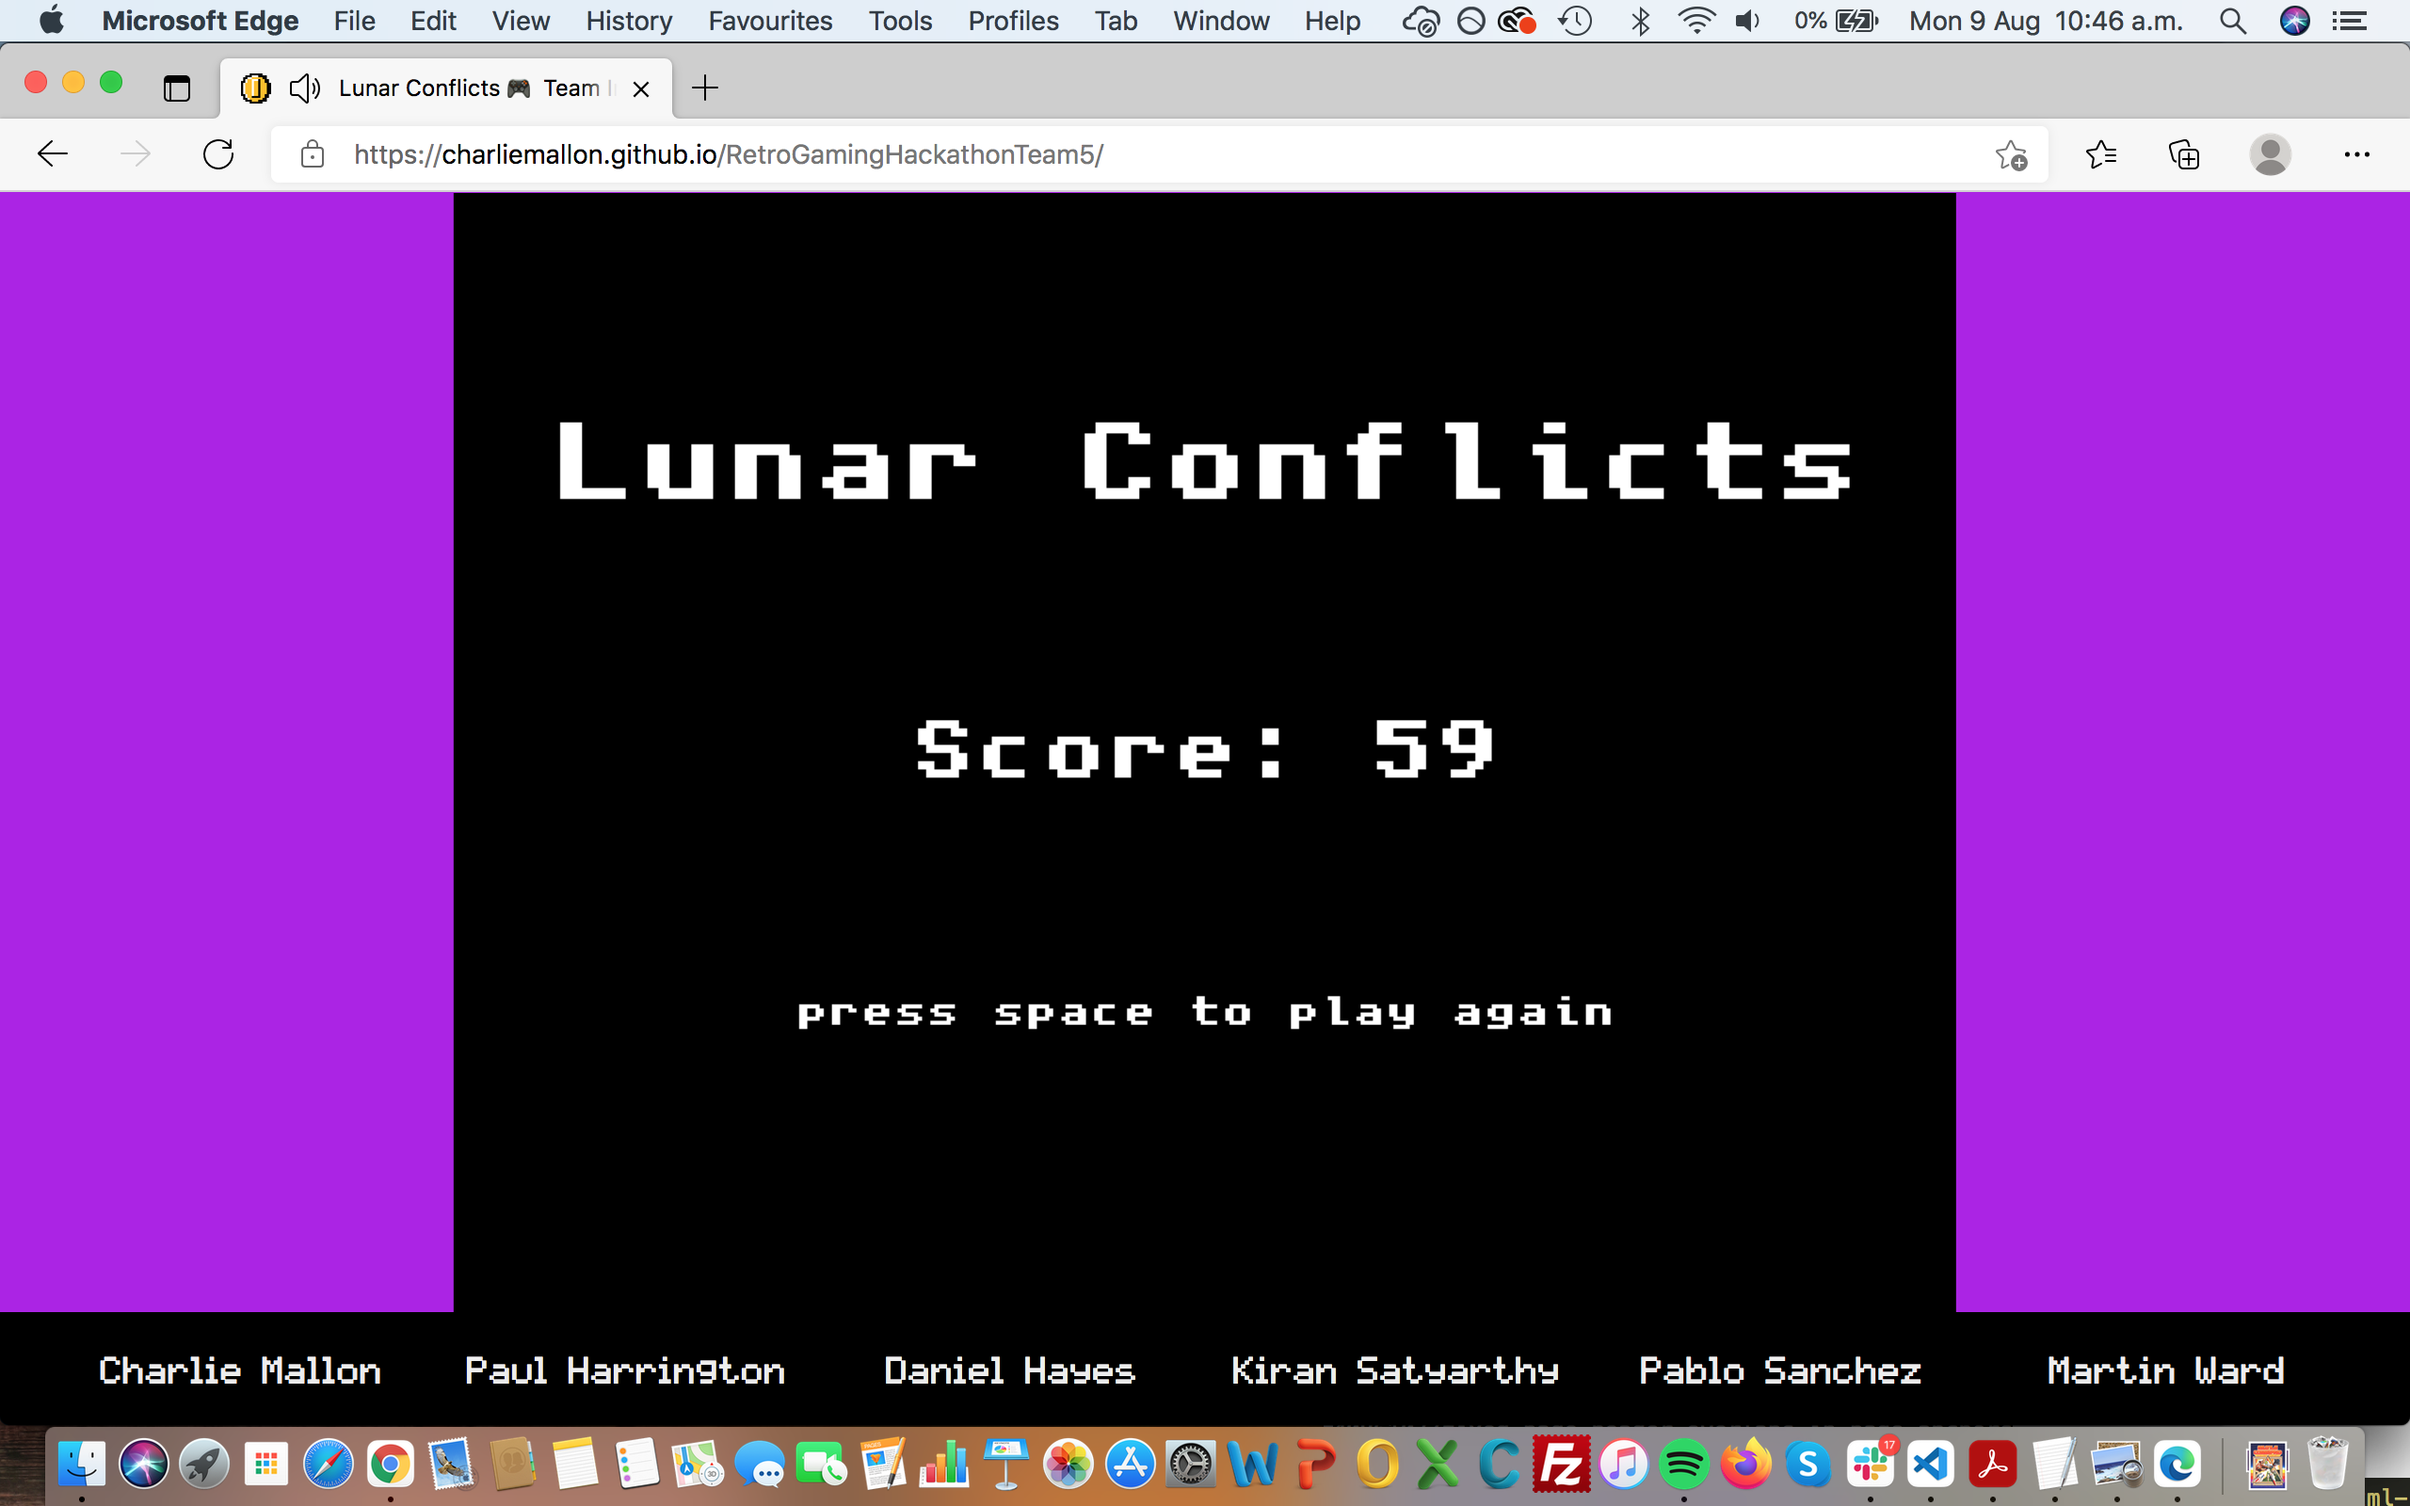
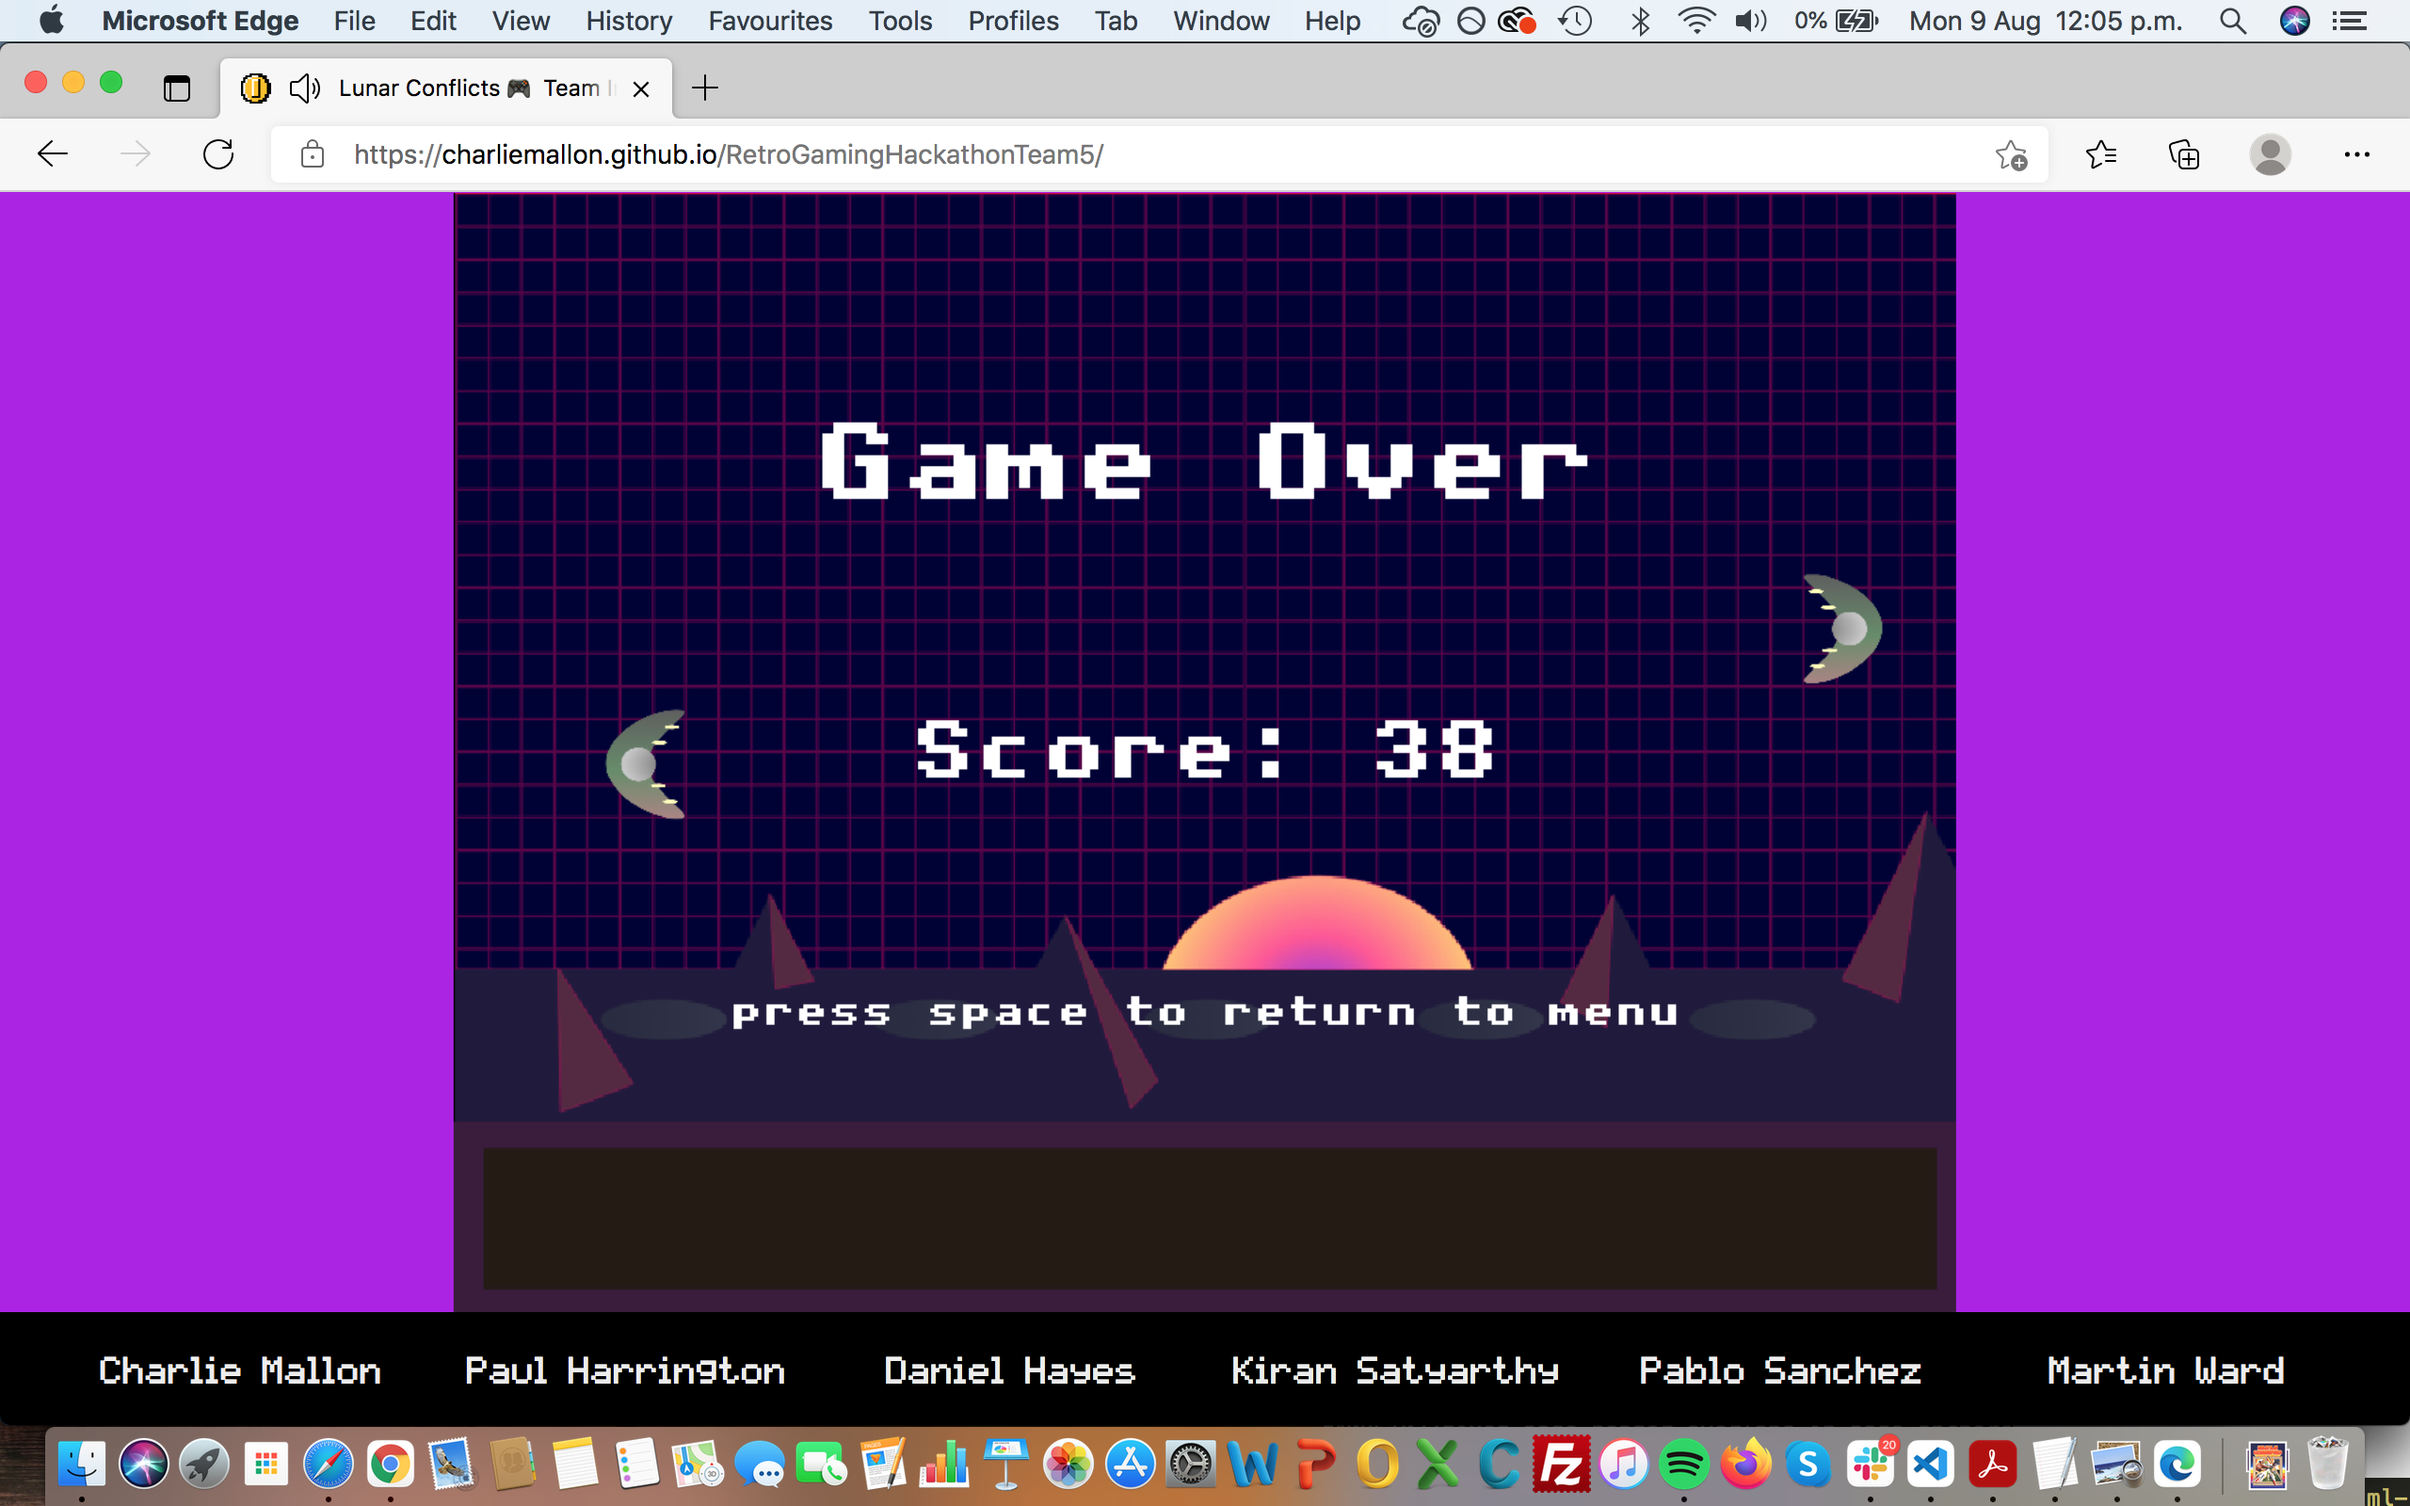
Update testing.md screenshots with new end screen and add Opera screenshots

diff --git a/testing.md b/testing.md
@@ -30,20 +30,21 @@
 | Devices |  |  |  | 
 | :------------ |:---------------: |:---------------:|:---------------:|
 |    **MacBook Pro**      |     ![](docs/images/responsiveness/devices/macbook/macbook-pro-1.png)            |   ![](docs/images/responsiveness/devices/macbook/macbook-pro-2.png)   |     ![](docs/images/responsiveness/devices/macbook/macbook-pro-3.png)           
-|    **Acer ΛSPIRE**      |     ![](docs/images/responsiveness/devices/macbook/macbook-pro-1.png)            |   ![](docs/images/responsiveness/devices/macbook/macbook-pro-2.png)   |     ![](docs/images/responsiveness/devices/macbook/macbook-pro-3.png)
-|    **Android Smart TV**      |     ![](docs/images/responsiveness/devices/macbook/macbook-pro-1.png)            |   ![](docs/images/responsiveness/devices/macbook/macbook-pro-2.png)   |     ![](docs/images/responsiveness/devices/macbook/macbook-pro-3.png)
+|    **Acer ΛSPIRE**      |     ![](docs/images/responsiveness/browsers/safari/safari-1.png)            |   ![](docs/images/responsiveness/browsers/safari/safari-1.png)   |     ![](docs/images/responsiveness/browsers/safari/safari-1.png)
+|    **Android Smart TV**      |     ![](docs/images/responsiveness/browsers/safari/safari-1.png)            |   ![](docs/images/responsiveness/browsers/safari/safari-1.png)   |     ![](docs/images/responsiveness/browsers/safari/safari-1.png)
 
 | Browsers |  |  |  |
 | :------------ |:---------------: |:---------------:|:---------------:|
 |    ![](docs/images/responsiveness/browsers/logos/logo-chrome.png "Google Chrome browser")      |     ![](docs/images/responsiveness/devices/macbook/macbook-pro-1.png)            |   ![](docs/images/responsiveness/devices/macbook/macbook-pro-2.png)   |     ![](docs/images/responsiveness/devices/macbook/macbook-pro-3.png)
 |    ![](docs/images/responsiveness/browsers/logos/logo-edge.png "Microsoft Edge browser")     |     ![](docs/images/responsiveness/browsers/edge/edge-1.png)            |   ![](docs/images/responsiveness/browsers/edge/edge-2.png)   |     ![](docs/images/responsiveness/browsers/edge/edge-3.png)
 |    ![](docs/images/responsiveness/browsers/logos/logo-firefox.png "Firefox browser")      |     ![](docs/images/responsiveness/browsers/firefox/firefox-1.png)            |   ![](docs/images/responsiveness/browsers/firefox/firefox-2.png)   |     ![](docs/images/responsiveness/browsers/firefox/firefox-3.png)  
-|    ![](docs/images/responsiveness/browsers/logos/logo-odin.png "Odin browser")      |     ![](docs/images/responsiveness/devices/macbook/macbook-pro-1.png)            |   ![](docs/images/responsiveness/devices/macbook/macbook-pro-2.png)   |     ![](docs/images/responsiveness/devices/macbook/macbook-pro-3.png)
-|    ![](docs/images/responsiveness/browsers/logos/logo-safari.png "Safari browser")      |     ![](docs/images/responsiveness/devices/macbook/macbook-pro-1.png)            |   ![](docs/images/responsiveness/devices/macbook/macbook-pro-2.png)   |     ![](docs/images/responsiveness/devices/macbook/macbook-pro-3.png)
+|    ![](docs/images/responsiveness/browsers/logos/logo-odin.png "Odin browser")      |     ![](docs/images/responsiveness/browsers/safari/safari-1.png)            |   ![](docs/images/responsiveness/browsers/safari/safari-1.png)   |     ![](docs/images/responsiveness/browsers/safari/safari-1.png)
+|    ![](docs/images/responsiveness/browsers/logos/logo-opera.png "Opera browser")      |     ![](docs/images/responsiveness/browsers/opera/opera-1.png)            |   ![](docs/images/responsiveness/browsers/opera/opera-2.png)   |     ![](docs/images/responsiveness/browsers/opera/opera-3.png)
+|    ![](docs/images/responsiveness/browsers/logos/logo-safari.png "Safari browser")      |     ![](docs/images/responsiveness/browsers/safari/safari-1.png)            |   ![](docs/images/responsiveness/browsers/safari/safari-1.png)   |     ![](docs/images/responsiveness/browsers/safari/safari-1.png)
 
   - A broad selection of desktop devices were used to test real-life responsiveness. These ranged in size from a [13" MacBook Pro](https://en.wikipedia.org/wiki/MacBook_Pro#3rd_generation_(Retina)) right up to a [JVC 32" LED Android Smart TV](https://www.currys.ie/ieen/tv-and-home-entertainment/televisions/televisions/jvc-lt-32ca690-android-tv-32-smart-hd-ready-led-tv-with-google-assistant-10199524-pdt.html) (using this device's native [Odin browser/ADK](https://play.google.com/store/apps/details?id=com.hisense.odinbrowser&hl=en&gl=US)). Other devices used in testing included an [Acer ΛSPIRE F15 Windows laptop](https://en.wikipedia.org/wiki/Acer_Aspire_laptops#Aspire_F_series).
 
-  - In addition to Chrome, Firefox and the emerging Odin smart TV browser, the site was also viewed numerous times in the Safari and Microsoft Edge browsers prior to completion.
+  - In addition to Chrome, Firefox and the emerging Odin smart TV browser, the site was also viewed numerous times in the Safari, Opera and Microsoft Edge browsers prior to completion.
 </details>
 
 ### Bugs:
